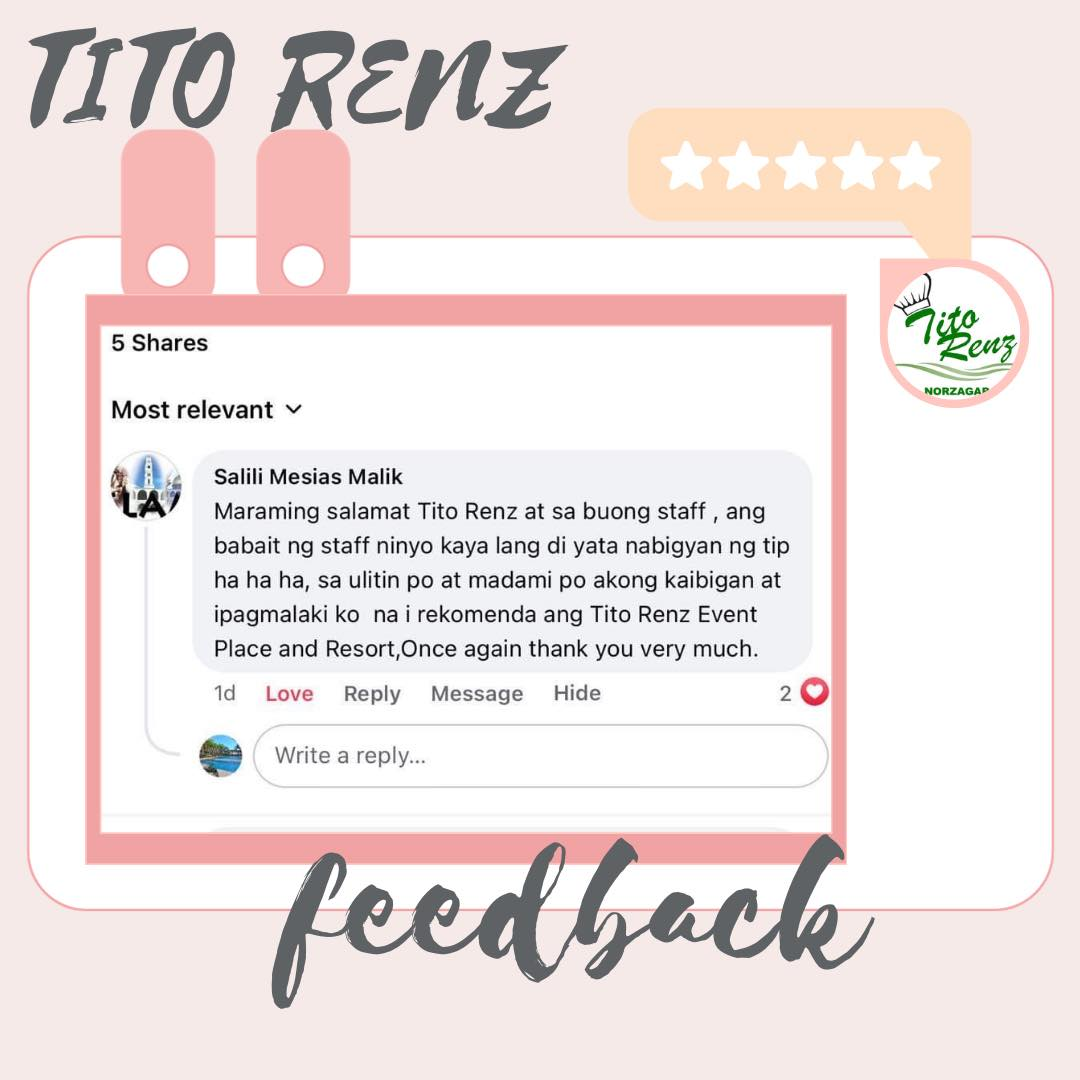
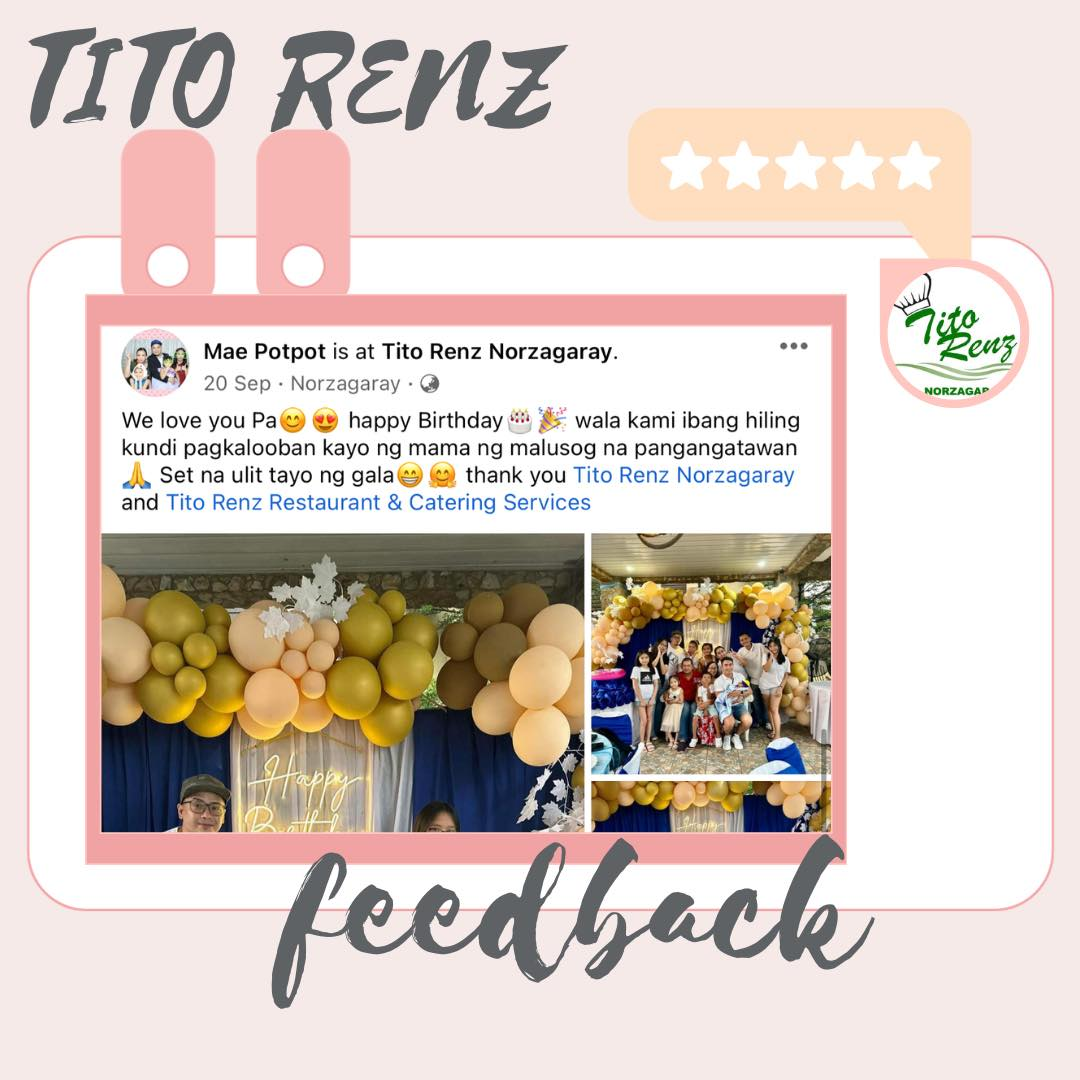
FIXES: 1. Organized the layout of contact.html 2. Enhanced layout and added 4 more feedback images in index.html and feedback.html 3. Updated address in footer and contact.html. 4. Added <br> to payment.html hero section for better spacing.

Changed region(s): [[0.0917, 0.3056, 0.7944, 0.7944]]

diff --git a/contact.html b/contact.html
@@ -23,7 +23,7 @@
 
     <main class="container page-content has-fixed-header-offset">
         <!-- Page Hero Section -->
-        <section class="page-hero-section" style="margin-bottom: 3rem;">
+        <section class="page-hero-section" style="margin-bottom: 1.5rem;">
             <div class="hero-content">
                 <br><br>
                 <h1>Get in Touch</h1>
@@ -31,17 +31,17 @@
             </div>
         </section>
 
-        <div style="display: grid; grid-template-columns: 1fr 1fr; gap: 3rem; max-width: 1200px; margin: 0 auto;">
+        <div style="display: grid; grid-template-columns: 0.8fr 1.2fr; gap: 1rem; max-width: 1200px; margin: 0 auto;">
             <!-- Contact Information -->
             <div class="contact-info-section">
-                <h2 style="margin-bottom: 1.5rem;">Get in Touch</h2>
+                <h2>Get in Touch</h2>
                 
-                <div class="contact-info-card" style="margin-bottom: 1.5rem; padding: 1.5rem; background: #f8f9fa; border-radius: 8px;">
+                <div class="contact-info-card" style="padding: 1rem; background: #f8f9fa; border-radius: 8px;">
                     <h3 style="margin-top: 0; color: var(--primary-color);">📍 Location</h3>
-                    <p>Norzagaray, Bulacan, Philippines</p>
+                    <p>Sitio Bulalo, Norzagaray, Philippines</p>
                 </div>
 
-                <div class="contact-info-card" style="margin-bottom: 1.5rem; padding: 1.5rem; background: #f8f9fa; border-radius: 8px;">
+                <div class="contact-info-card" style="padding: 1rem; background: #f8f9fa; border-radius: 8px;">
                     <h3 style="margin-top: 0; color: var(--primary-color);">📞 Phone</h3>
                     <p>
                         <a href="tel:09772468920">0977 246 8920</a><br>
@@ -49,16 +49,27 @@
                     </p>
                 </div>
 
-                <div class="contact-info-card" style="margin-bottom: 1.5rem; padding: 1.5rem; background: #f8f9fa; border-radius: 8px;">
+                <div class="contact-info-card" style="padding: 1rem; background: #f8f9fa; border-radius: 8px;">
                     <h3 style="margin-top: 0; color: var(--primary-color);">📧 Email</h3>
                     <p>
                         <a href="mailto:titorenznorzagaray@gmail.com">titorenznorzagaray@gmail.com</a>
                     </p>
                 </div>
 
-                <div class="contact-info-card" style="padding: 1.5rem; background: #f8f9fa; border-radius: 8px;">
+                <div class="contact-info-card" style="padding: 1rem; background: #f8f9fa; border-radius: 8px;">
                     <h3 style="margin-top: 0; color: var(--primary-color);">⏰ Response Time</h3>
                     <p>We typically respond within 24 hours during business days.</p>
+                </div>
+
+                <!-- Alternative Contact Method -->
+                <div style="padding: 1.5rem; background: #f8f9fa00; border-radius: 8px;">
+                    <h3 style="margin-bottom: 1rem; color: var(--primary-color);">Prefer to reach out directly?</h3>
+                    <p style="font-size: 0.95rem;">You can also:</p>
+                    <ul style="list-style: none; padding: 0; margin: 0;">
+                        <li style="margin-bottom: 0.5rem;"><a href="mailto:titorenznorzagaray@gmail.com" class="button-secondary" style="display: block; padding: 0.5rem; text-align: center;">📧 Send Email</a></li>
+                        <li style="margin-bottom: 0.5rem;"><a href="tel:09772468920" class="button-secondary" style="display: block; padding: 0.5rem; text-align: center;">📞 Call Us</a></li>
+                        <li><a href="help.html" class="button-secondary" style="display: block; padding: 0.5rem; text-align: center;">❓ Visit Help Center</a></li>
+                    </ul>
                 </div>
             </div>
 
@@ -101,9 +112,9 @@
                     </div>
 
                     <!-- Spam Prevention -->
-                    <div class="form-group" id="spamCheckContainer" style="display: flex; gap: 1rem; align-items: center;">
-                        <input type="checkbox" id="notSpamCheck" name="notSpam" required>
-                        <label for="notSpamCheck" style="margin: 0;">I'm not a robot and I understand my message will be reviewed</label>
+                    <div style="display: flex; align-items: center; gap: 8px; margin-top: 15px;">
+                        <input type="checkbox" id="notSpamCheck" name="notSpam" required style="width: auto;">
+                        <label for="notSpamCheck" style="font-weight: bold; margin-bottom: 0.6rem;">I'm not a robot and I understand my message will be reviewed</label>
                     </div>
 
                     <button type="submit" class="button-primary" style="width: 100%; padding: 0.75rem;">Send Message</button>
@@ -113,17 +124,6 @@
                     * Required fields
                 </p>
             </div>
-        </div>
-
-        <!-- Alternative Contact Method -->
-        <div style="margin-top: 4rem; padding: 2rem; background: #f8f9fa; border-radius: 8px; text-align: center; max-width: 1000px; margin-left: auto; margin-right: auto;">
-            <h3>Prefer to reach out directly?</h3>
-            <p>You can also:</p>
-            <ul style="list-style: none; padding: 0;">
-                <li><a href="mailto:titorenznorzagaray@gmail.com" class="button-secondary" style="display: inline-block; margin: 0.5rem;">📧 Send Email</a></li>
-                <li><a href="tel:09772468920" class="button-secondary" style="display: inline-block; margin: 0.5rem;">📞 Call Us</a></li>
-                <li><a href="help.html" class="button-secondary" style="display: inline-block; margin: 0.5rem;">❓ Visit Help Center</a></li>
-            </ul>
         </div>
     </main>
 

diff --git a/index.html b/index.html
@@ -224,9 +224,9 @@
         <div class="container" style="max-width: 900px; margin: 0 auto; text-align: center;">
           <h2 style="margin-bottom: 1.5rem; color: var(--primary-color, #28a745); font-size: 2.5rem;">What Our Customers Say</h2>
           <div id="reviews-carousel-wrapper" style="position: relative;">
-            <button id="carousel-prev" aria-label="Previous" style="position: absolute; left: 0; top: 50%; transform: translateY(-50%); background: none; border: none; font-size: 2rem; color: #888; cursor: pointer; z-index: 2;">&#8249;</button>
-            <img id="carousel-image" src="feedback/1.jpg" alt="Customer Review Photo" style="max-width: 100%; max-height: 500px; border-radius: 12px; box-shadow: 0 4px 16px #0002; transition: opacity 0.3s;" />
-            <button id="carousel-next" aria-label="Next" style="position: absolute; right: 0; top: 50%; transform: translateY(-50%); background: none; border: none; font-size: 2rem; color: #888; cursor: pointer; z-index: 2;">&#8250;</button>
+                            <button id="carousel-prev" aria-label="Previous" style="position: absolute; left: 0; top: 50%; transform: translateY(-50%); background: none; border: none; font-size: 5rem; color: #888; cursor: pointer; z-index: 2;">&#8249;</button>
+                            <img id="carousel-image" src="feedback/1.jpg" alt="Customer Review Photo" style="max-width: 100%; max-height: 500px; border-radius: 12px; box-shadow: 0 4px 16px #0002; transition: opacity 0.3s;" />
+                            <button id="carousel-next" aria-label="Next" style="position: absolute; right: 0; top: 50%; transform: translateY(-50%); background: none; border: none; font-size: 5rem; color: #888; cursor: pointer; z-index: 2;">&#8250;</button>
           </div>
         </div>
       </section>
@@ -346,7 +346,7 @@
       fetchAndRenderBlockedDates();
 
       // Customer Reviews Carousel Logic
-      const images = ['feedback/1.jpg', 'feedback/2.jpg'];
+      const images = ['feedback/1.jpg', 'feedback/2.jpg', 'feedback/3.jpg', 'feedback/4.jpg', 'feedback/5.jpg', 'feedback/6.jpg'];
       let current = 0;
       const carouselImg = document.getElementById('carousel-image');
       const prevBtn = document.getElementById('carousel-prev');

diff --git a/feedback.html b/feedback.html
@@ -39,9 +39,9 @@
                     <div class="container" style="max-width: 700px; margin: 0 auto; text-align: center;">
                         <!-- <h2 style="margin-bottom: 1.5rem; color: var(--primary-color, #28a745);">What Our Customers Say</h2> -->
                         <div id="reviews-carousel-wrapper" style="position: relative;">
-                            <button id="carousel-prev" aria-label="Previous" style="position: absolute; left: 0; top: 50%; transform: translateY(-50%); background: none; border: none; font-size: 2rem; color: #888; cursor: pointer; z-index: 2;">&#8249;</button>
+                            <button id="carousel-prev" aria-label="Previous" style="position: absolute; left: 0; top: 50%; transform: translateY(-50%); background: none; border: none; font-size: 5rem; color: #888; cursor: pointer; z-index: 2;">&#8249;</button>
                             <img id="carousel-image" src="feedback/1.jpg" alt="Customer Review Photo" style="max-width: 100%; max-height: 500px; border-radius: 12px; box-shadow: 0 4px 16px #0002; transition: opacity 0.3s;" />
-                            <button id="carousel-next" aria-label="Next" style="position: absolute; right: 0; top: 50%; transform: translateY(-50%); background: none; border: none; font-size: 2rem; color: #888; cursor: pointer; z-index: 2;">&#8250;</button>
+                            <button id="carousel-next" aria-label="Next" style="position: absolute; right: 0; top: 50%; transform: translateY(-50%); background: none; border: none; font-size: 5rem; color: #888; cursor: pointer; z-index: 2;">&#8250;</button>
                         </div>
                     </div>
                 </section>
@@ -214,7 +214,7 @@
 
         // Customer Reviews Carousel Logic (shared with index.html)
         document.addEventListener('DOMContentLoaded', function() {
-            const images = ['feedback/1.jpg', 'feedback/2.jpg'];
+            const images = ['feedback/1.jpg', 'feedback/2.jpg', 'feedback/3.jpg', 'feedback/4.jpg', 'feedback/5.jpg', 'feedback/6.jpg'];
             let current = 0;
             const carouselImg = document.getElementById('carousel-image');
             const prevBtn = document.getElementById('carousel-prev');

diff --git a/ui-core.js b/ui-core.js
@@ -702,7 +702,7 @@ function renderCompleteFooter() {
       <div class="footer-section contact-info">
         <h3>Tito Renz Resort</h3>
         <p>Your seamless booking experience starts here.</p>
-        <p>📍 Norzagaray, Bulacan, Philippines</p>
+        <p>📍 Sitio Bulalo, Norzagaray, Philippines</p>
         <p>📞 0977 246 8920 or 0916 640 3411</p>
         <p>📧 titorenznorzagaray@gmail.com</p>
       </div>

diff --git a/payment.html b/payment.html
@@ -21,6 +21,7 @@
         <!-- Page Hero Section -->
         <section class="page-hero-section" style="margin-bottom: 3rem;">
             <div class="hero-content">
+                <br><br>
                 <h1>💰 Payment</h1>
                 <p>Complete your reservation payment</p>
             </div>
